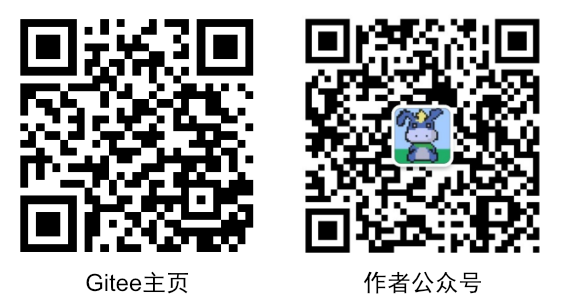
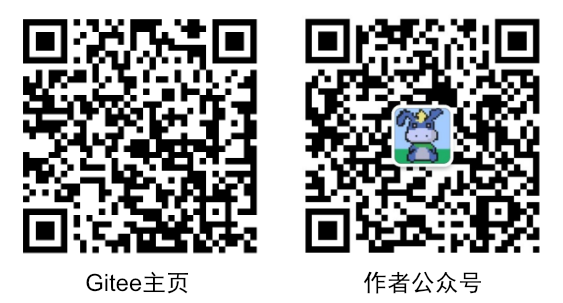
更新了gitee主页的网址

Changed region(s): [[0.0302, 0.0594, 0.4831, 0.8614]]

diff --git a/tagdox.py b/tagdox.py
@@ -45,9 +45,9 @@ from libs.markdown import MarkdownRel  # 对 markdown 的特殊处理
 # import my_logger
 # import send2trash # 回收站（目前作废）
 
-URL_HELP = 'https://gitee.com/horse_sword/my-local-library'  # 帮助的超链接，目前是 gitee 主页
-URL_ADV = 'https://gitee.com/horse_sword/my-local-library/issues'  # 提建议的位置
-URL_CHK_UPDATE = 'https://gitee.com/horse_sword/my-local-library/releases'  # 检查更新的位置
+URL_HELP = 'https://gitee.com/horse_sword/tagdox'  # 帮助的超链接，目前是 gitee 主页
+URL_ADV = 'https://gitee.com/horse_sword/tagdox/issues'  # 提建议的位置
+URL_CHK_UPDATE = 'https://gitee.com/horse_sword/tagdox/releases'  # 检查更新的位置
 TAR = 'Tagdox / 标签文库'  # 程序名称
 VER = 'v0.22.0.2'  # 版本号
 
@@ -5990,7 +5990,7 @@ if __name__ == '__main__':
         "folder_75_20": tk.PhotoImage(file="./src/folder_75_20.png"),
         "folder_50_20": tk.PhotoImage(file="./src/folder_50_20.png"),
         "folder_25_20": tk.PhotoImage(file="./src/folder_25_20.png")}
-    IMAGE_FOLDER = tk.PhotoImage(file='./src/在线帮助.png')
+    IMAGE_FOLDER = tk.PhotoImage(file='./src/gitee_homepage.png')
     #
     # 运行
     update_folder_list()  # 文件夹列表
